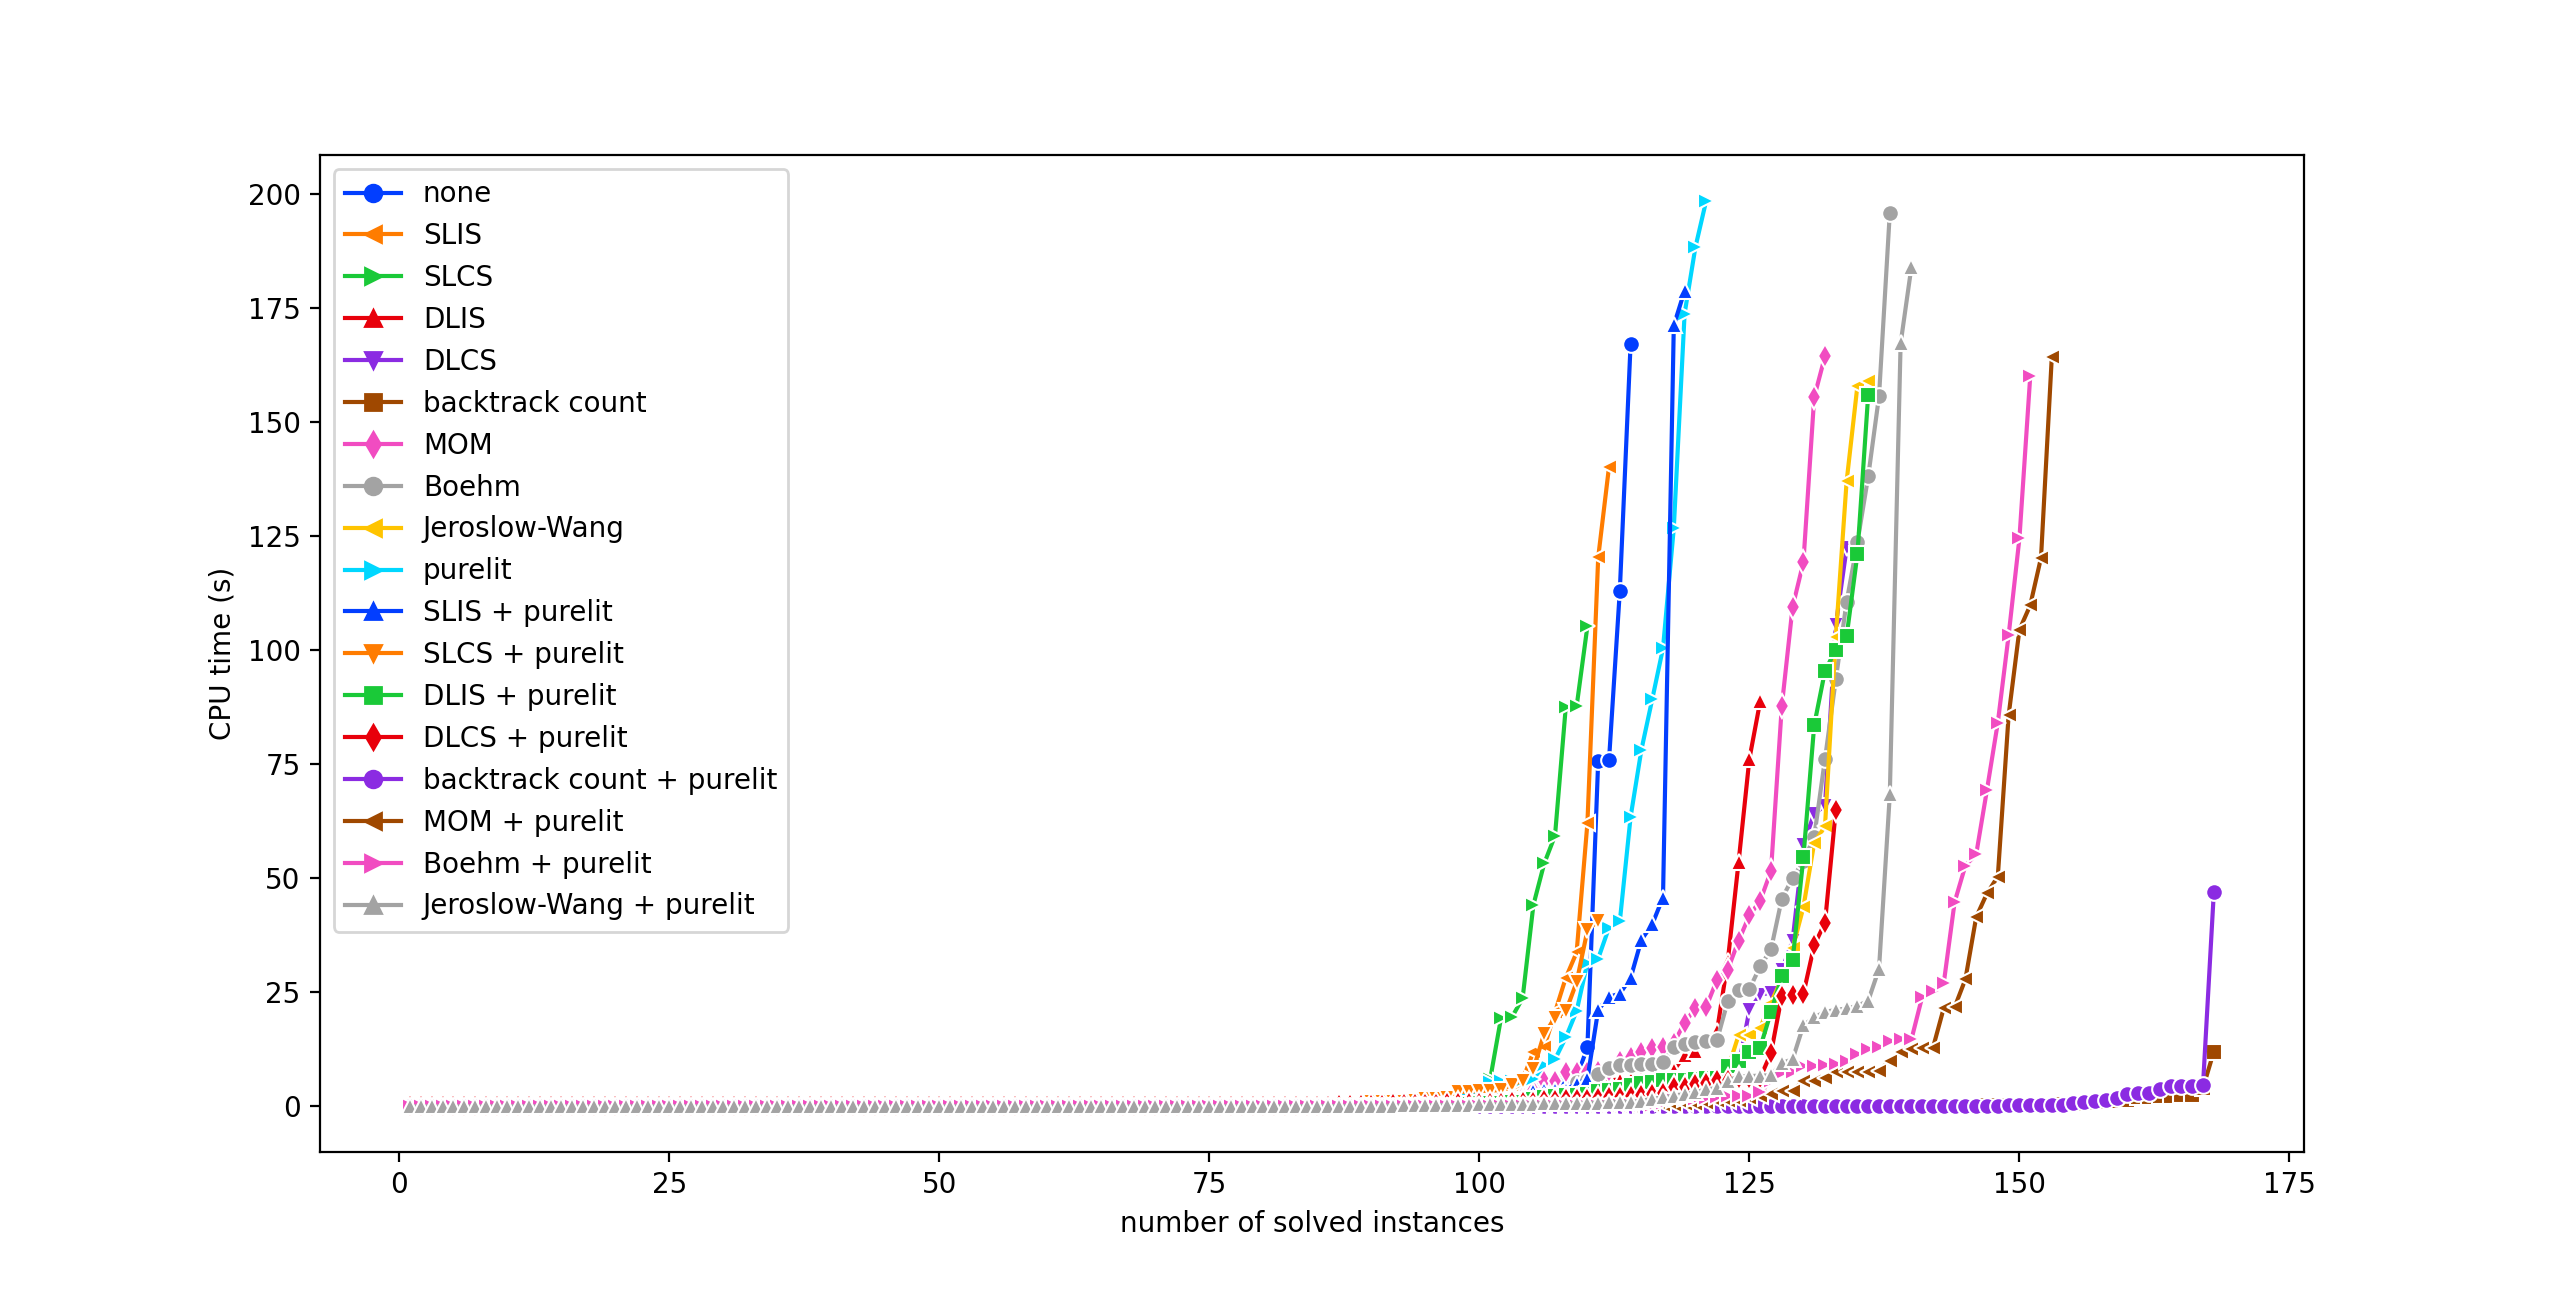
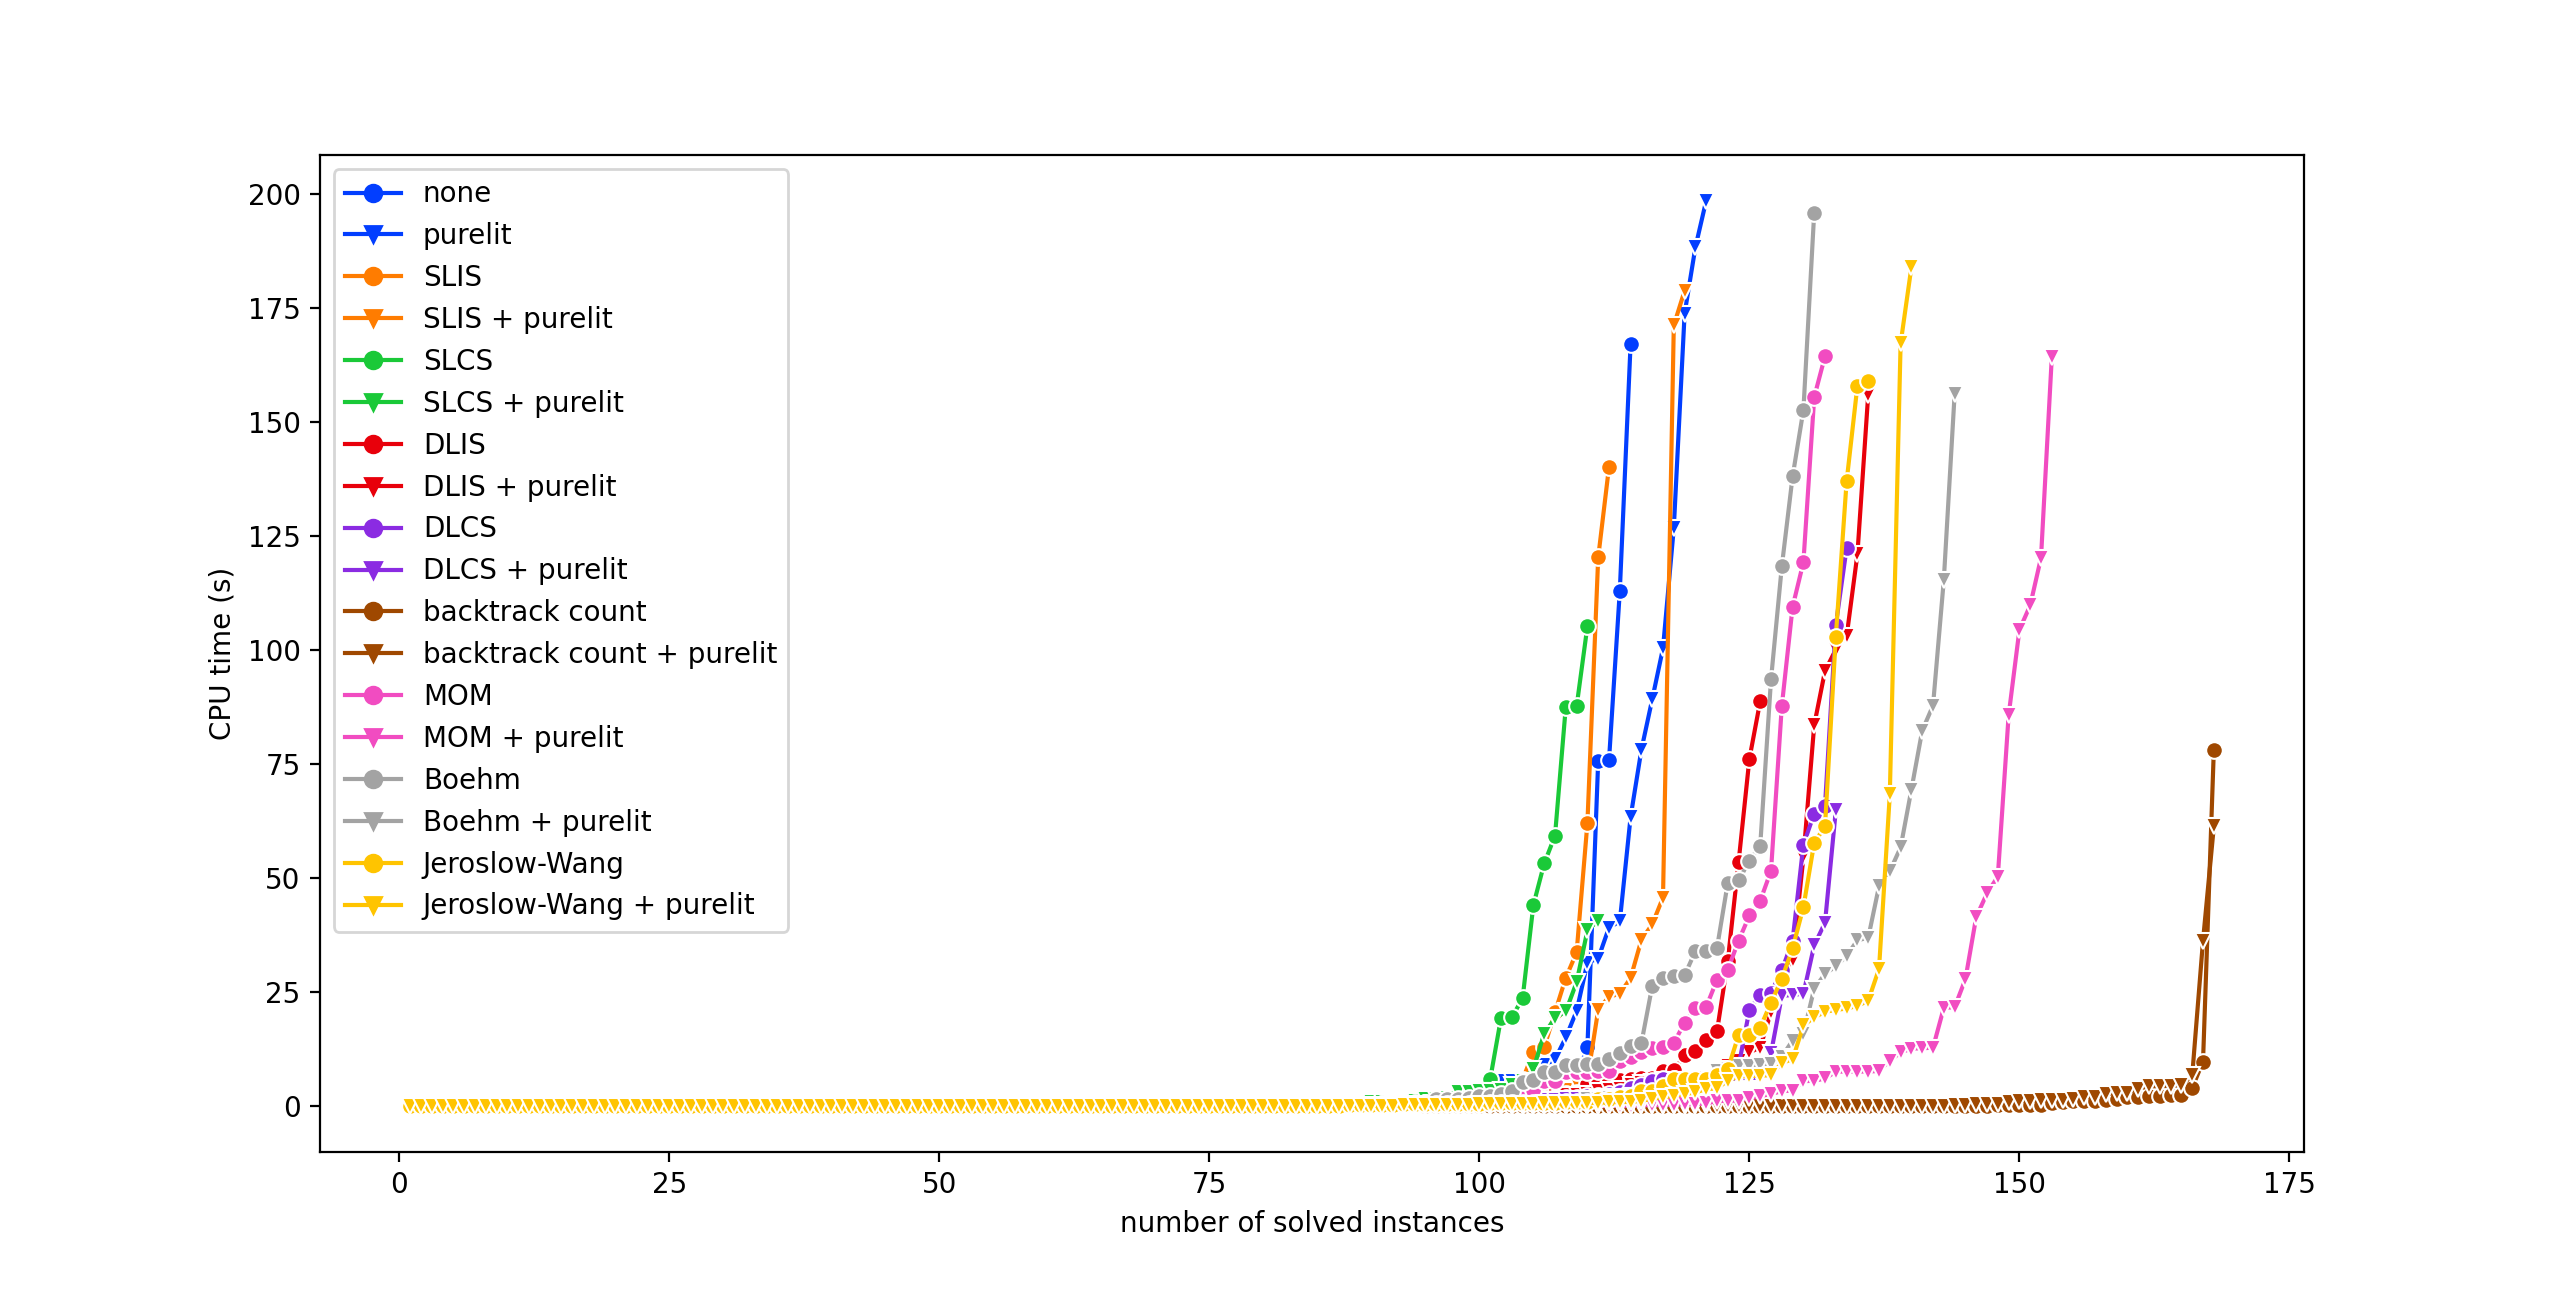
changed markers of the plot

diff --git a/display_plot.py b/display_plot.py
@@ -25,7 +25,8 @@ for conf in stats_combined:
 # Display the cactus plot.
 fig, axs = plt.subplots(ncols=1)
 fig.canvas.set_window_title('Evaluation')
-markers = (['o', '<', '>', '^', 'v', 's', 'd']*len(stats_combined))[:len(stats_combined)]
-sns.lineplot(x='Instances', y='Time', hue='Configuration', data=stats_dict, markers=markers, style="Configuration", dashes=False, palette='bright')
+markers = (['o', 'v']*len(stats_combined))[:len(stats_combined)]
+colors = [color for color in sns.color_palette('bright') for _ in range(2)][:len(stats_combined)]
+sns.lineplot(x='Instances', y='Time', hue='Configuration', data=stats_dict, markers=markers, style="Configuration", dashes=False, palette=colors)
 axs.set(xlabel = 'number of solved instances', ylabel = 'CPU time (s)')
 plt.show()
